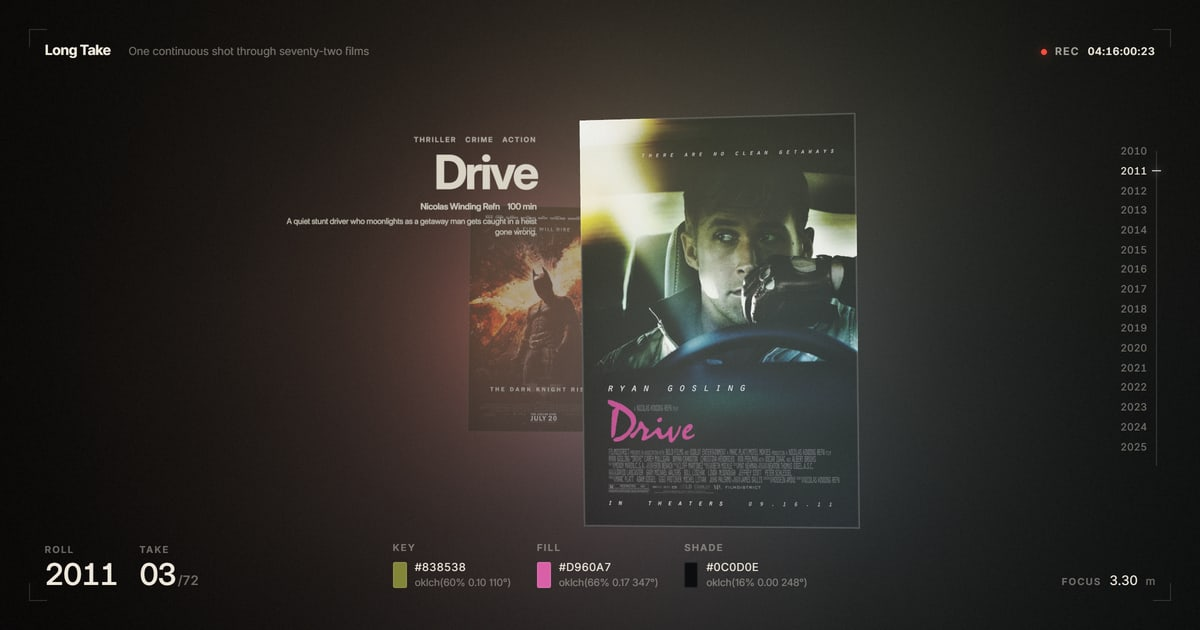
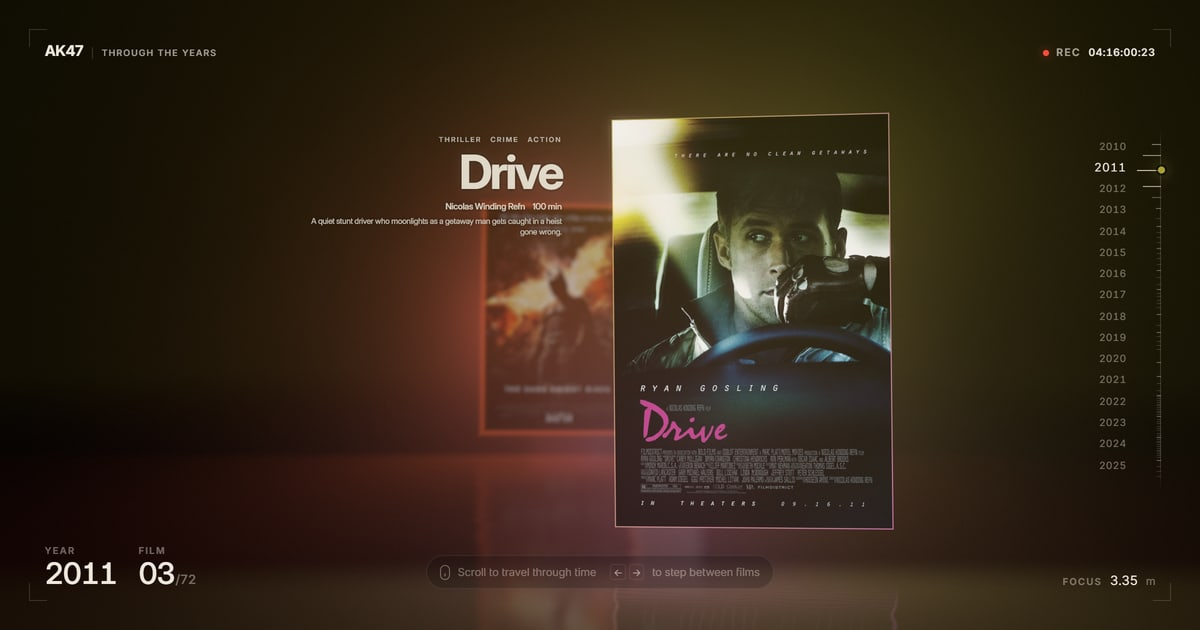
feat(brand): rename the wordmark to AK47 and retitle the page Through the Years

diff --git a/src/app/layout.tsx b/src/app/layout.tsx
@@ -8,12 +8,12 @@ const siteUrl = process.env.VERCEL_PROJECT_PRODUCTION_URL
 
 export const metadata: Metadata = {
   metadataBase: new URL(siteUrl),
-  title: 'Long Take',
+  title: 'AK47 · Through the Years',
   description:
-    'One continuous shot through seventy-two films from 2010 to 2025, each poster lighting the air around it.',
+    'Browse seventy-two films from 2010 to 2025 in one continuous camera move, each poster lighting the air around it.',
   openGraph: {
-    title: 'Long Take',
-    description: 'One continuous shot through seventy-two films, each poster lighting the air around it.',
+    title: 'AK47 · Through the Years',
+    description: 'Browse seventy-two films in one continuous camera move, each poster lighting the air around it.',
     type: 'website',
   },
   twitter: { card: 'summary_large_image' },

diff --git a/src/app/page.tsx b/src/app/page.tsx
@@ -6,7 +6,7 @@ export default function Home() {
     <main>
       <LongTake />
       <section className="sr-only" aria-labelledby="index-heading">
-        <h1 id="index-heading">Long Take, seventy-two films from 2010 to 2025</h1>
+        <h1 id="index-heading">AK47, Through the Years, seventy-two films from 2010 to 2025</h1>
         <ol>
           {catalogue.films.map((film) => (
             <li key={film.slug}>

diff --git a/src/components/long-take/Hud.tsx b/src/components/long-take/Hud.tsx
@@ -121,7 +121,7 @@ export function Hud({ ref, film, index, onJump }: HudProps) {
 
       <header className={styles.top}>
         <p className={styles.brand}>
-          Obscura<span className={styles.section}>Through the Years</span>
+          AK47<span className={styles.section}>Through the Years</span>
         </p>
         <p className={styles.rec} aria-hidden="true">
           <span className={styles.dot} />

diff --git a/README.md b/README.md
@@ -1,4 +1,4 @@
-# Long Take
+# AK47 · Through the Years
 
 One continuous camera move through seventy-two films from 2010 to 2025. Depth in the scene
 is time in the catalogue, every poster lights the haze around it, and titles and posters

diff --git a/CLAUDE.md b/CLAUDE.md
@@ -1,6 +1,6 @@
 @AGENTS.md
 
-# Long Take
+# AK47 · Through the Years
 
 A scroll-driven WebGL depth gallery of film posters. Read `README.md` for the architecture.
 
